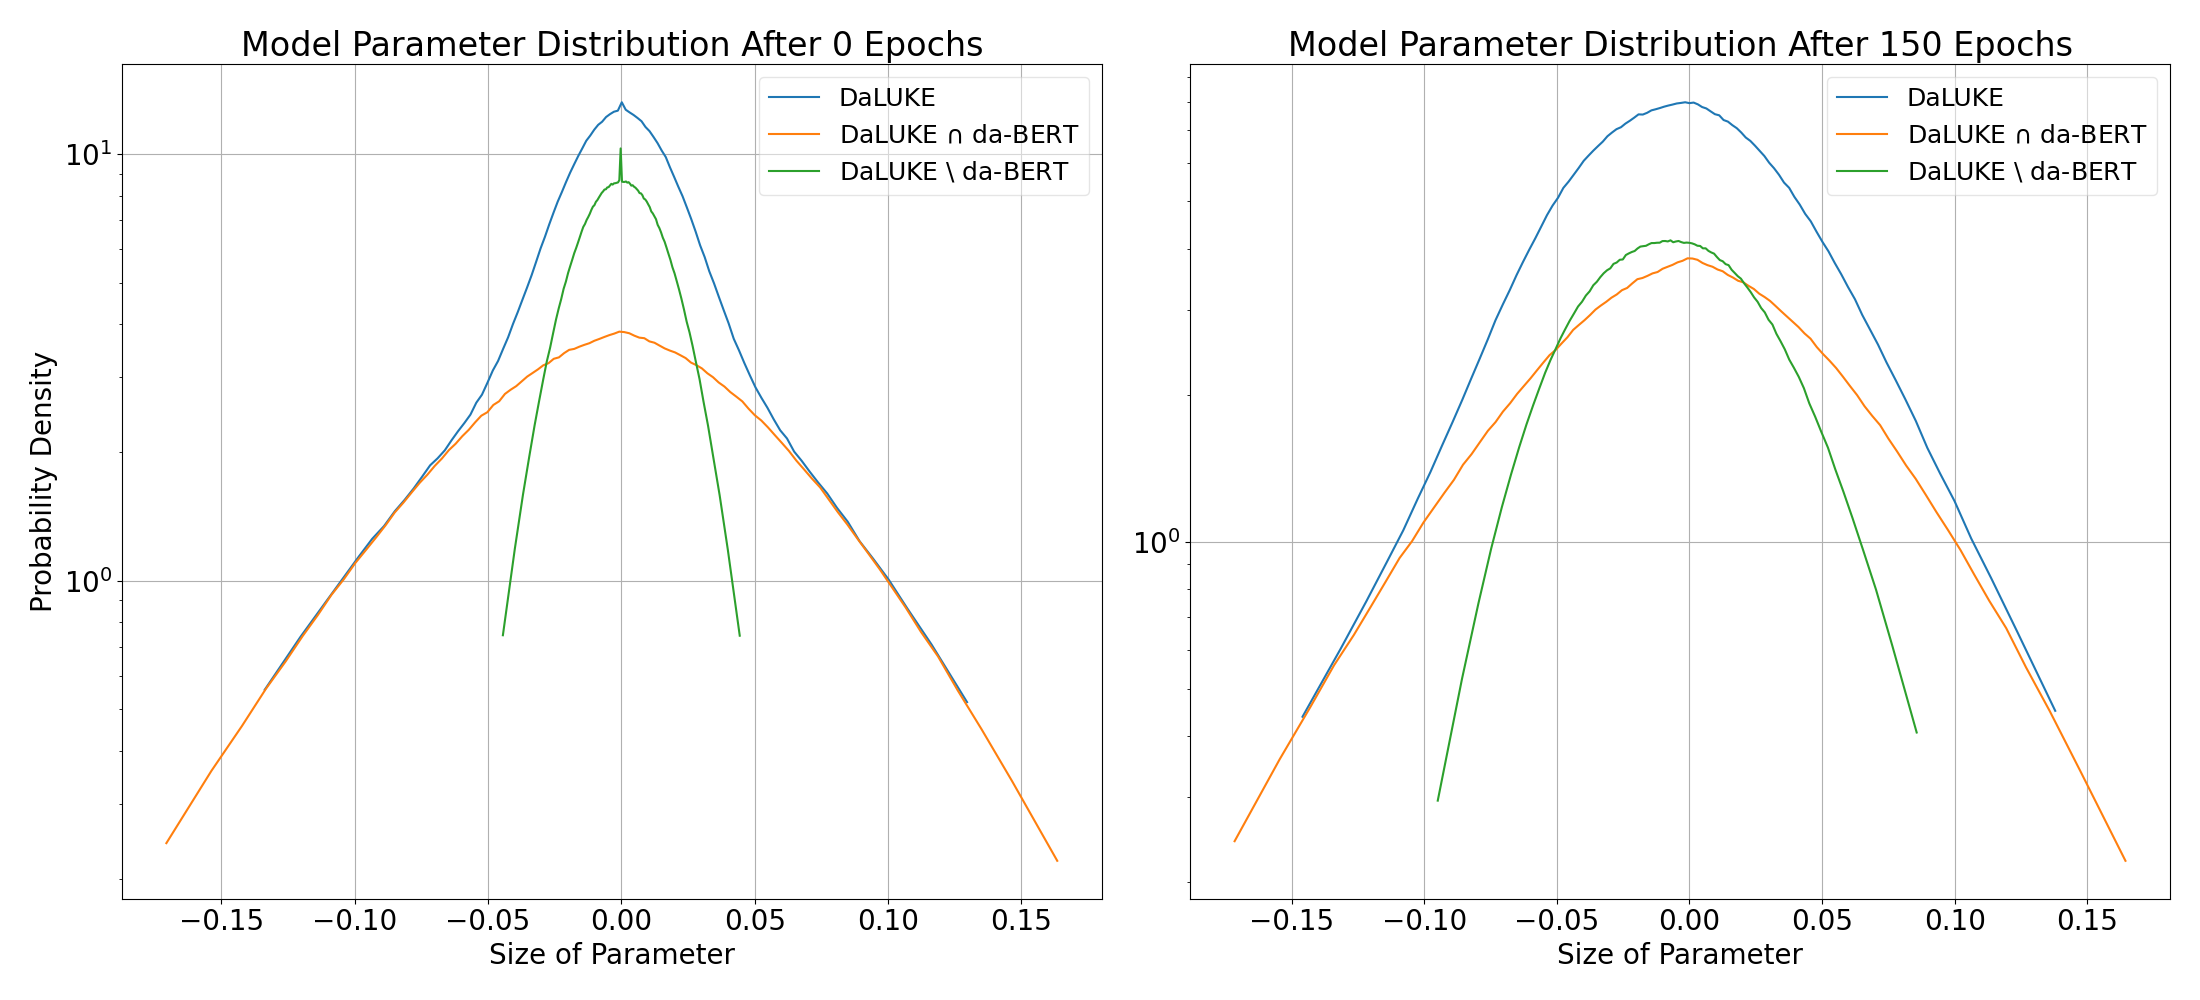
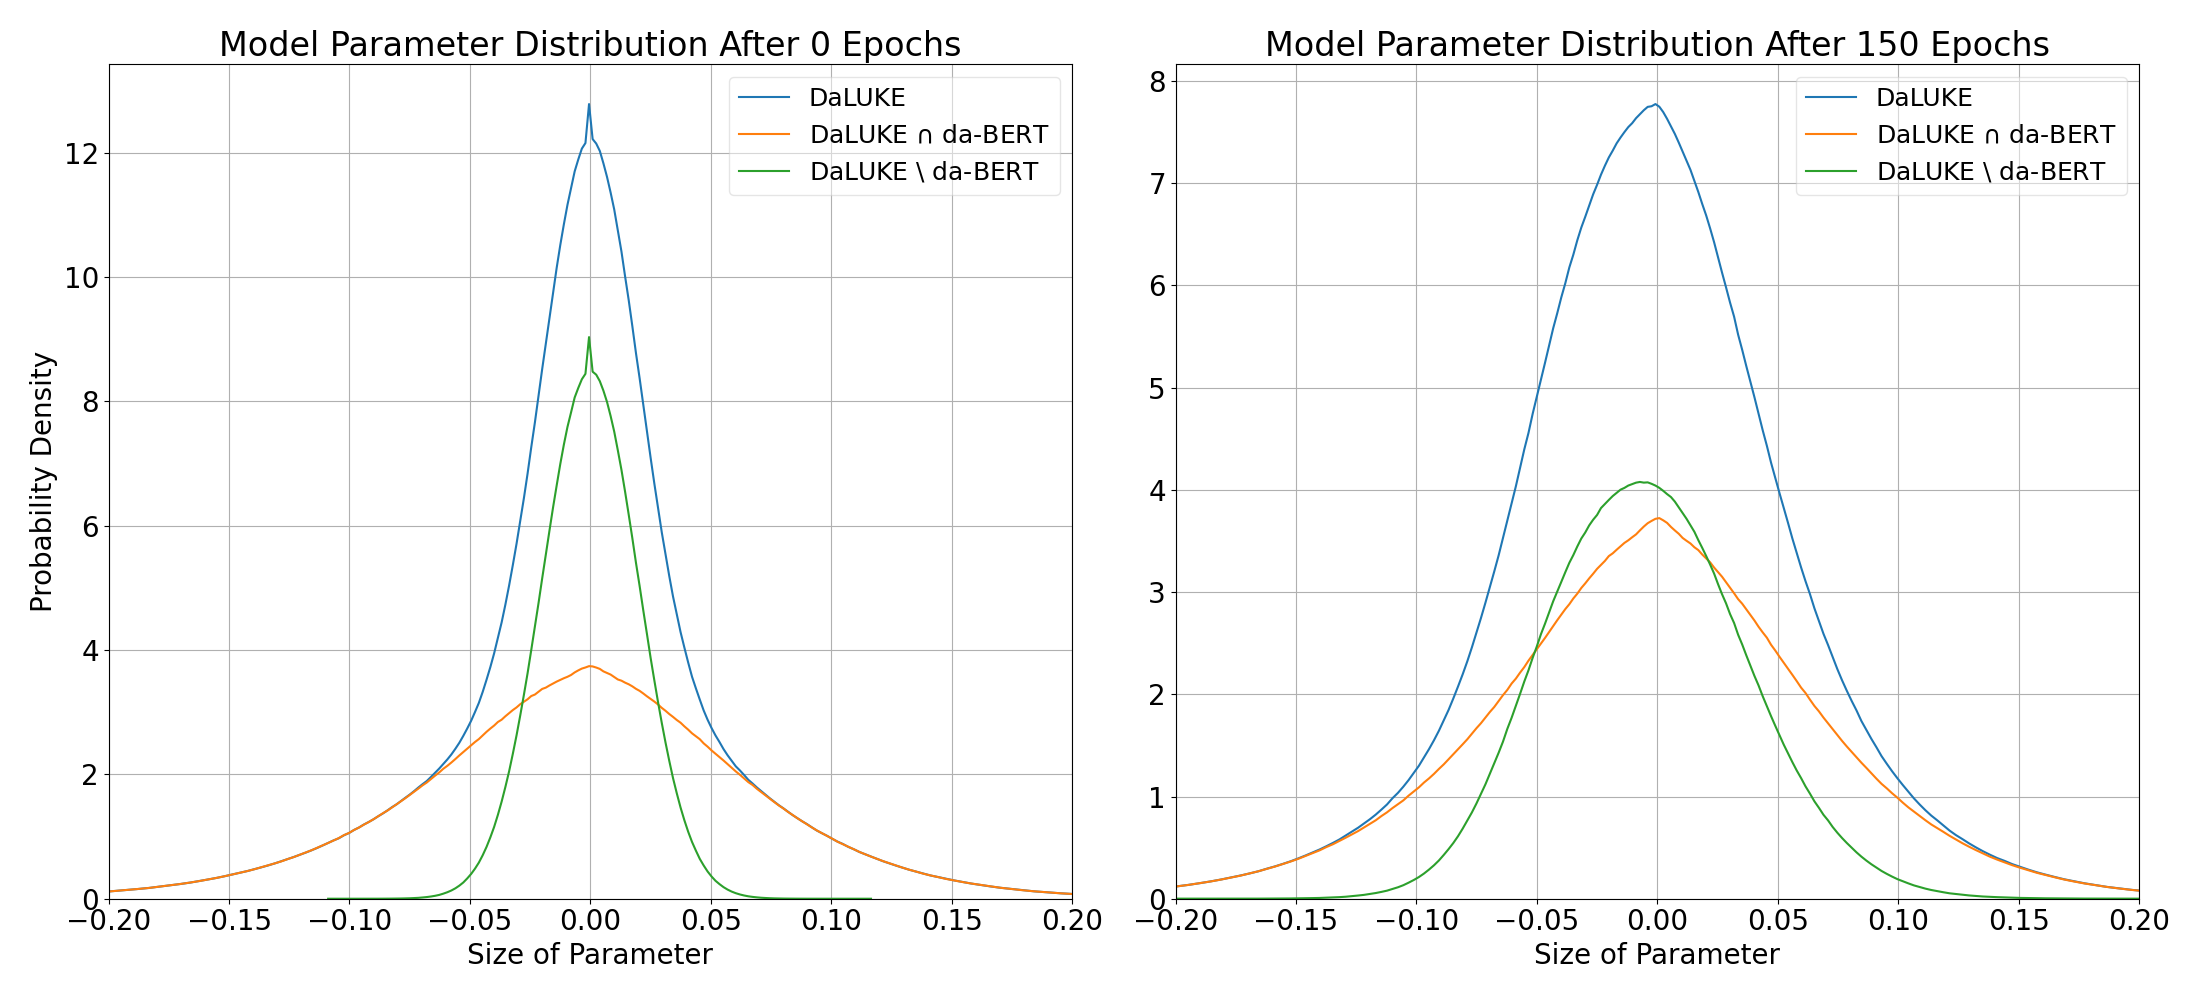
It's fucking RAW

diff --git a/sections/discussion.tex b/sections/discussion.tex
@@ -1,3 +1,4 @@
+% !TeX spellcheck = en_GB
 \documentclass[main.tex]{subfiles}
 
 \begin{document}
@@ -16,11 +17,34 @@ All of the models presented here are evaluated on the DaNE test set \emph{with} 
 This is because only the performances relative to the baseline model rather than other NER models is interesting.
 
 \subsection{The Parameter Population}
+Following Yamada et al. \cite{yamada2020luke}, DaLUKE is trained with weight decay on all parameters barring biases and layer norms.
+According to Krogh and Hertz \cite{krogh1991weight}, weight decay improves generalizability in feed-forward networks.
+This is due to the suppression of irrelevant parameters, letting the smallest possible parameters solve the problems.
+Larger parameters naturally lead to larger sensitivity to noise and thus poorer generalization.
+
+Motivated by this, the distribution of parameters is measured.
+Figure \ref{fig:weight-dist} shows the distribution before and after pretraining divided by whether or not a given parameter was initialized from da-BERT.
 \begin{figure}[H]
     \centering
     \includegraphics[width=\textwidth]{weights}
-    \caption{The parameter distribution before and after pretraining.}
+    \caption{
+        The parameter distribution before and after pretraining.
+        The decoder is included but only makes up a relatively small part.
+        DaLUKE $ \cap $ da-BERT refers to the parameters that are set in DaLUKE from da-BERT including the query matrices that are strictly not part of da-BERT.
+        DaLUKE $ \backslash $ da-BERT are the remaining parameters.
+        These are made up of the entity embeddings (58 million parameters) and the entity decoder (58 million parameters).
+        In total, the model has 273 million parameters.
+        Notetice that DaLUKE $ \cap $ da-BERT and DaLUKE $ \backslash $ da-BERT are not full probability densities but rather subsets that together make up the DaLUKE graph, which is a full probability density.   
+    }
+    \label{fig:weight-dist}
 \end{figure}\noindent
+Two observations stand out:
+Firstly, DaLUKE exclusive parameters, which consist of entity embeddings and the entity part of the decoder, are spread out.
+This includes the notable peak that comes from biases and layernorms being initialized to 0.
+Secondly, the shared parameters are more or less unchanged in their distribution.
+This makes sense, as they are already trained, and so training even more with a similar task should not make result in any significant change.
+Furthermore, all parameters from da-BERT (barring the three sets of DaLUKE exclusive query matrices) are not changed for the first half of training.
+When they are finally unlocked, both the loss and learning rate have dropped significantly leading to less change.
 
 \subsection{Effect of More Pretraining}
 How more pretraining affects the language understanding of the model can be hard to quantify.
